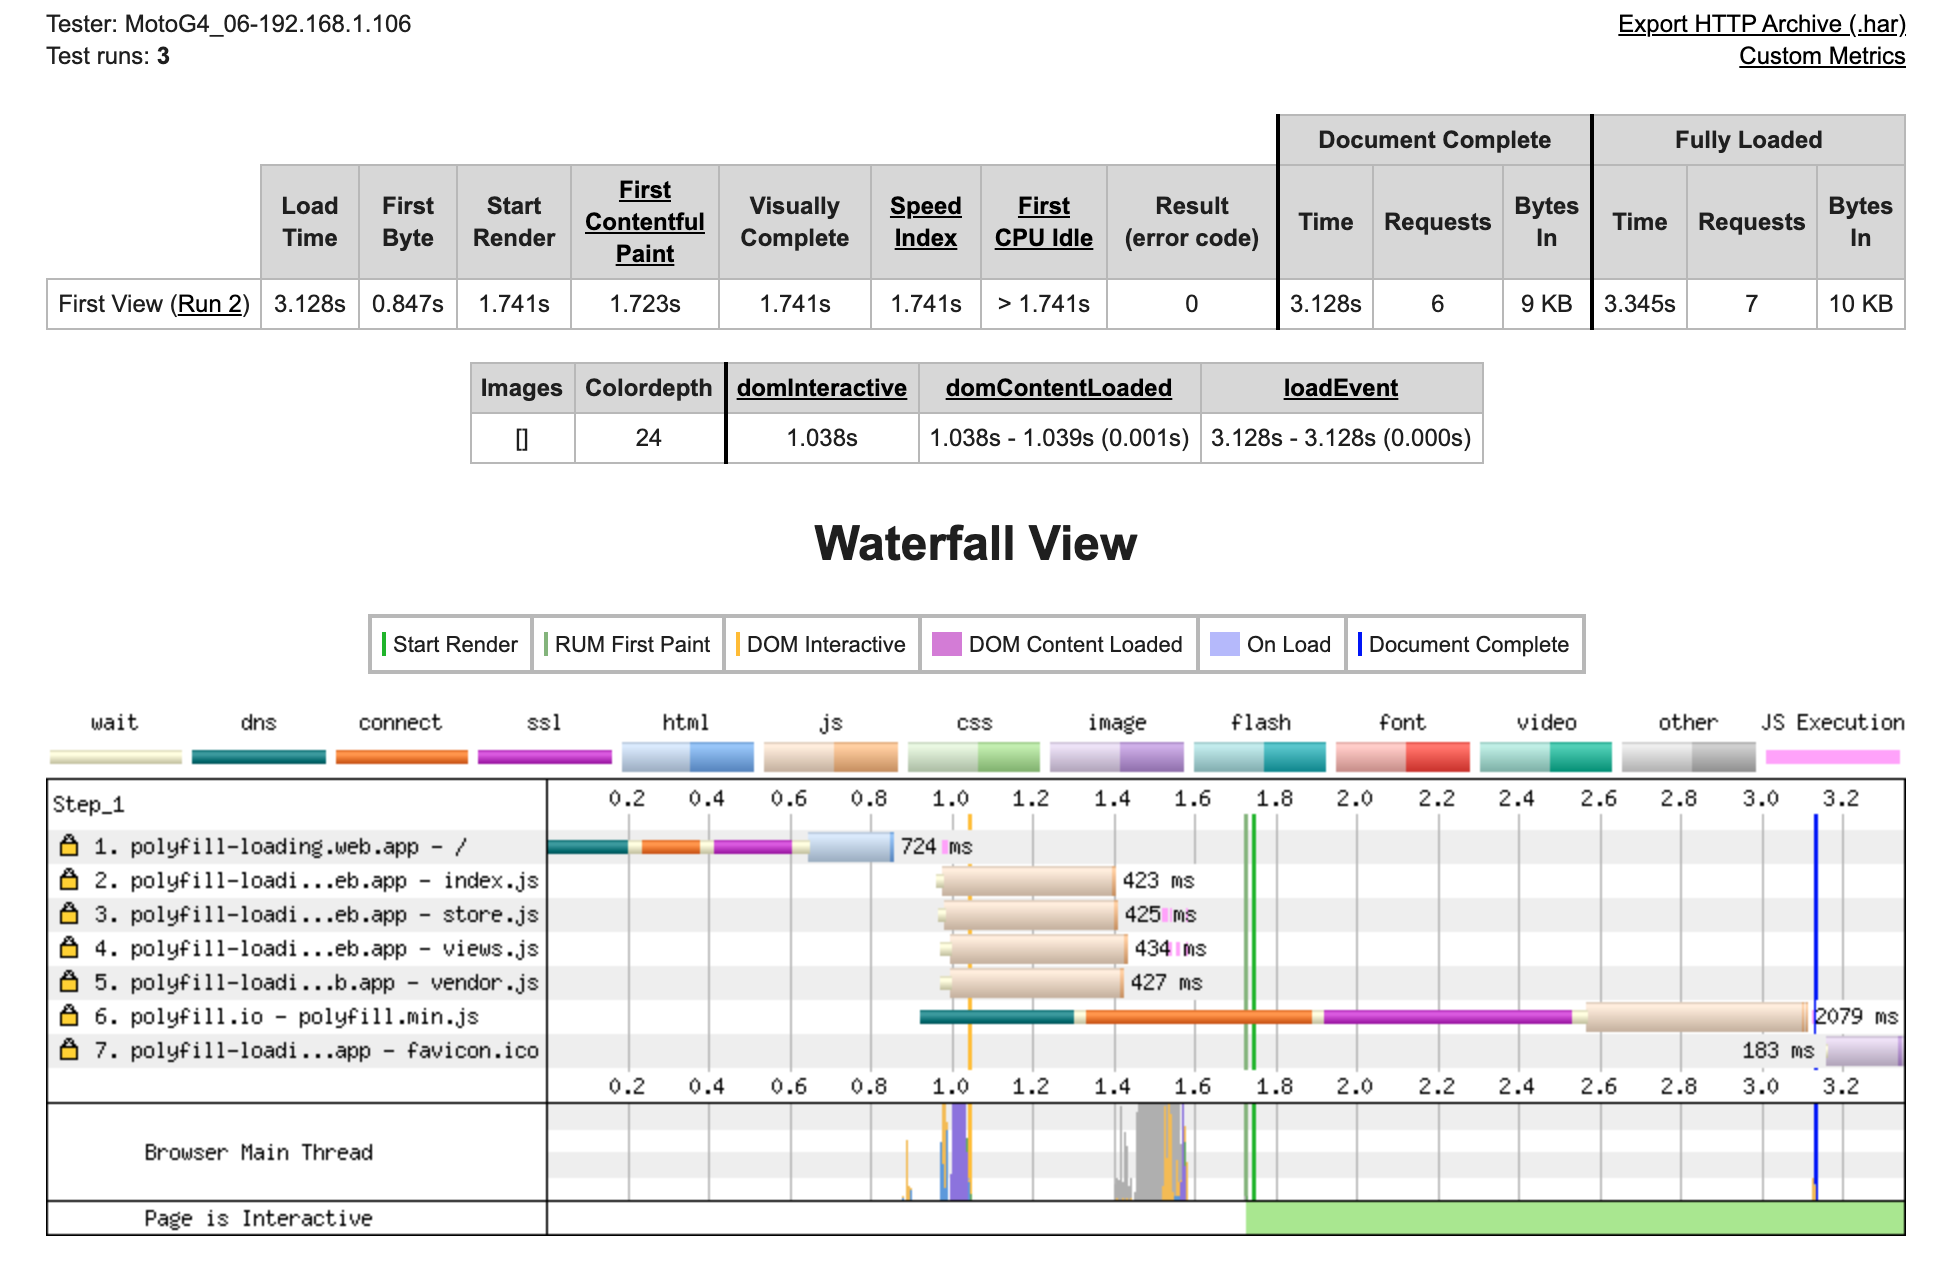
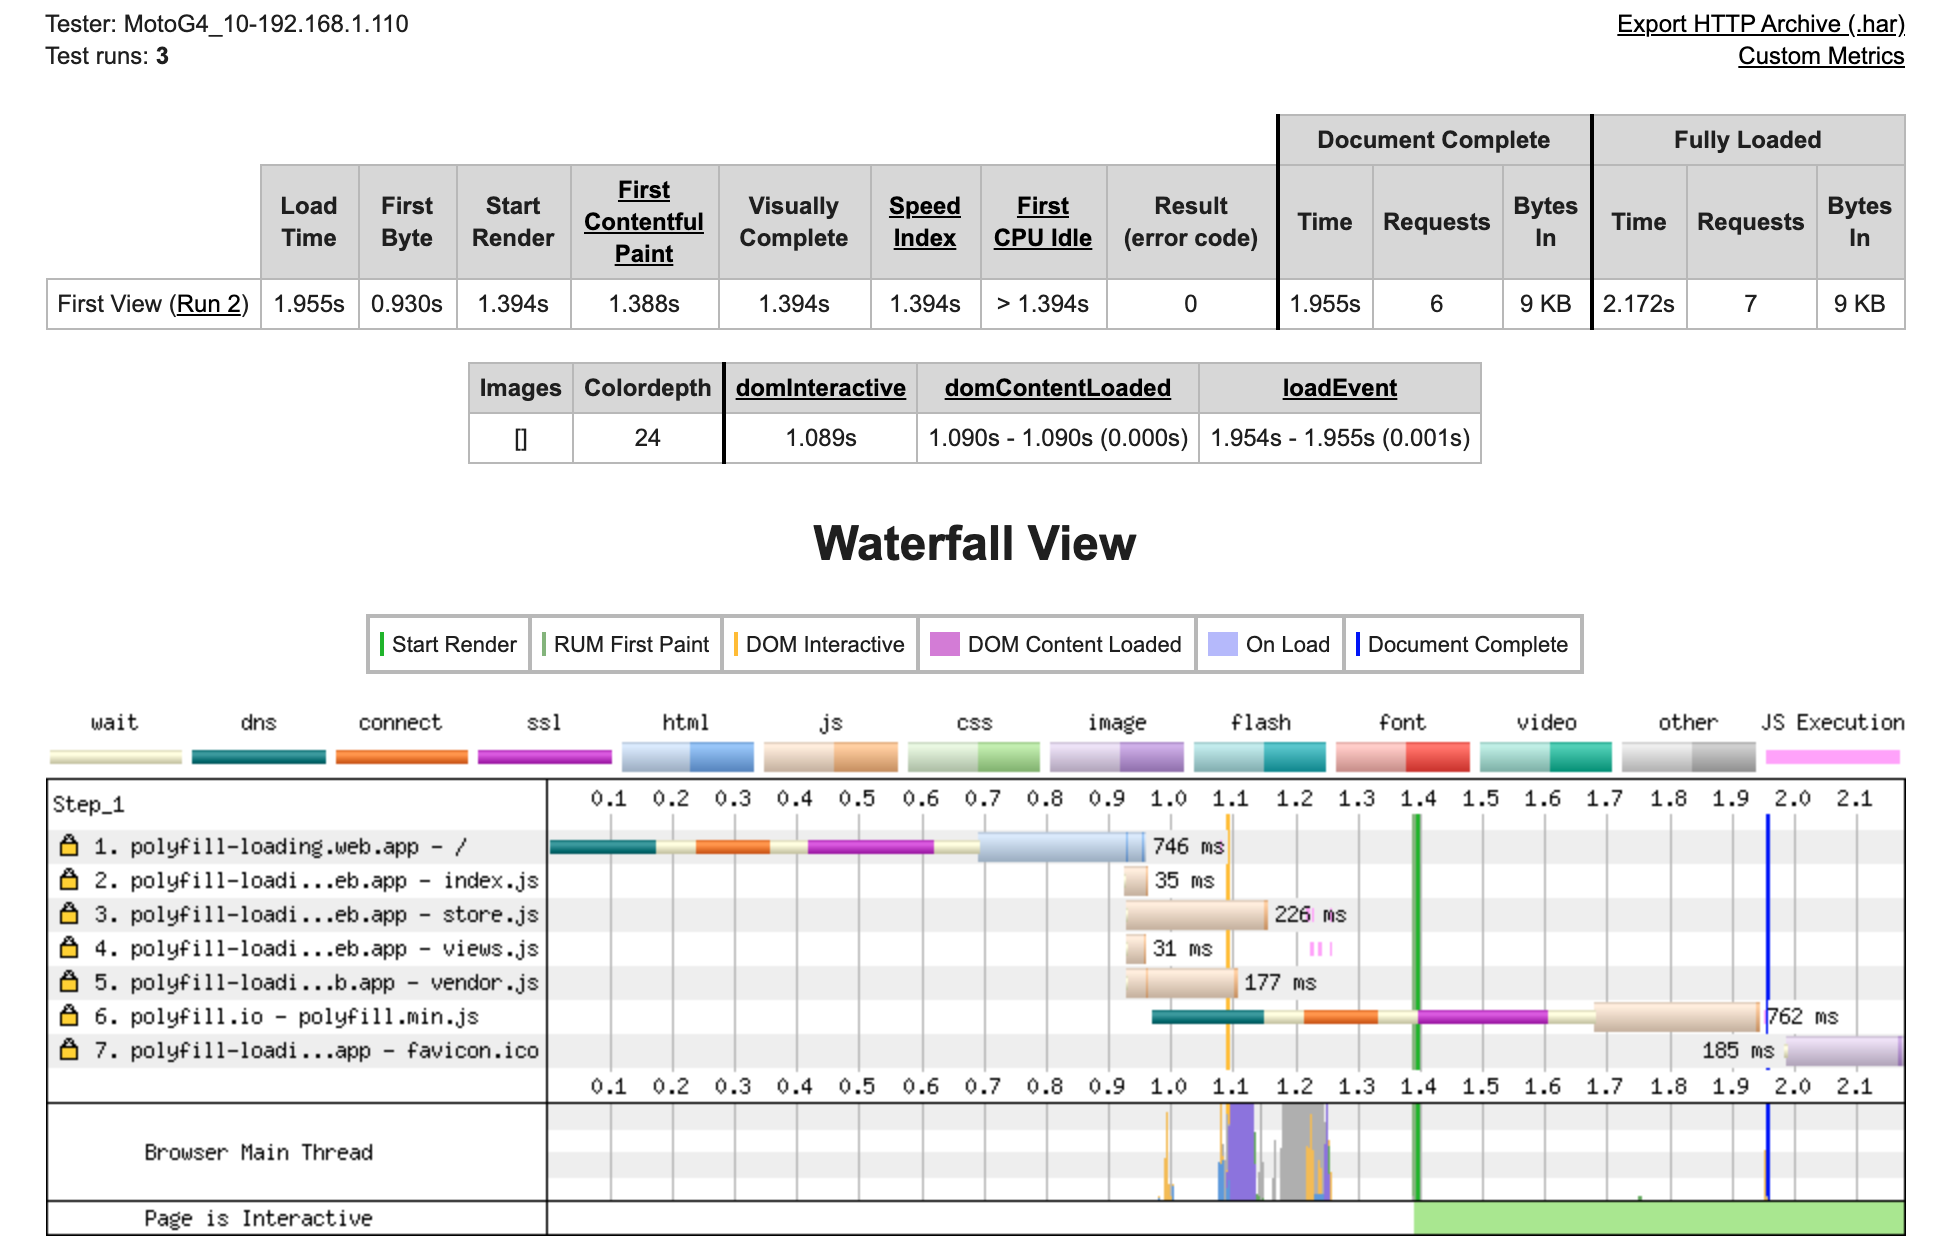
Update web-page-test screenshots with server-push

diff --git a/readme.md b/readme.md
@@ -175,8 +175,11 @@ When the client _does_ require polyfills, the console output shows that they are
 
 Note that there is also another polyfill in play here, shown by the message "polyfilling EventTarget". In this case, I'm inlining a very small polyfill in the store code (which is still only 2.6Kb gzipped) rather than delay it to load seperately. This is an example where following rigid rules doesn't help and it can make sense to include certain polyfills in the bundle on a case-by-case basis. When I no longer want to support those browsers that need it, I will be able to simply remove the import statement and save ~600 bytes of JavaScript.
 
-WebPageTest results show fast load time and the app code executing before the polyfills have loaded. Using the blocking technique would move the execution of those to after the polyfill script, in this case delaying them by at least 2 seconds. Instead, the page is completely loaded, interactive and idle in about 1.7 seconds on a Moto G4, showing that the need to load polyfills for _some_ browsers hasn't inpacted potential performance.
+WebPageTest results show fast load time and the app code executing before the polyfills have loaded. Using the blocking technique would force the execution of those to _after_ the polyfill script, in this case delaying them by at least 760ms (some requests take 2 seconds). Instead, the page is completely loaded, interactive and idle in about 1.4 seconds on a Moto G4, showing that the need to load polyfills for _some_ browsers hasn't inpacted potential performance.
 ![no polyfills web-page-test](images/no-polyfills-web-page-test.png)
+
+Here are the requests showing that the app code is used _before_ the page is rendered and the polyfill code doesn't hold that up for a fully-supported browser.
+![no polyfills web-page-test requests](images/no-polyfills-web-page-test-requests.png)
 
 Page Speed Insights also shows great [results](https://developers.google.com/speed/pagespeed/insights/?url=https%3A%2F%2Fpolyfill-loading.web.app%2F):
 ![no-polyfills page-speed-insights](images/no-polyfills-page-speed-insights.png)
